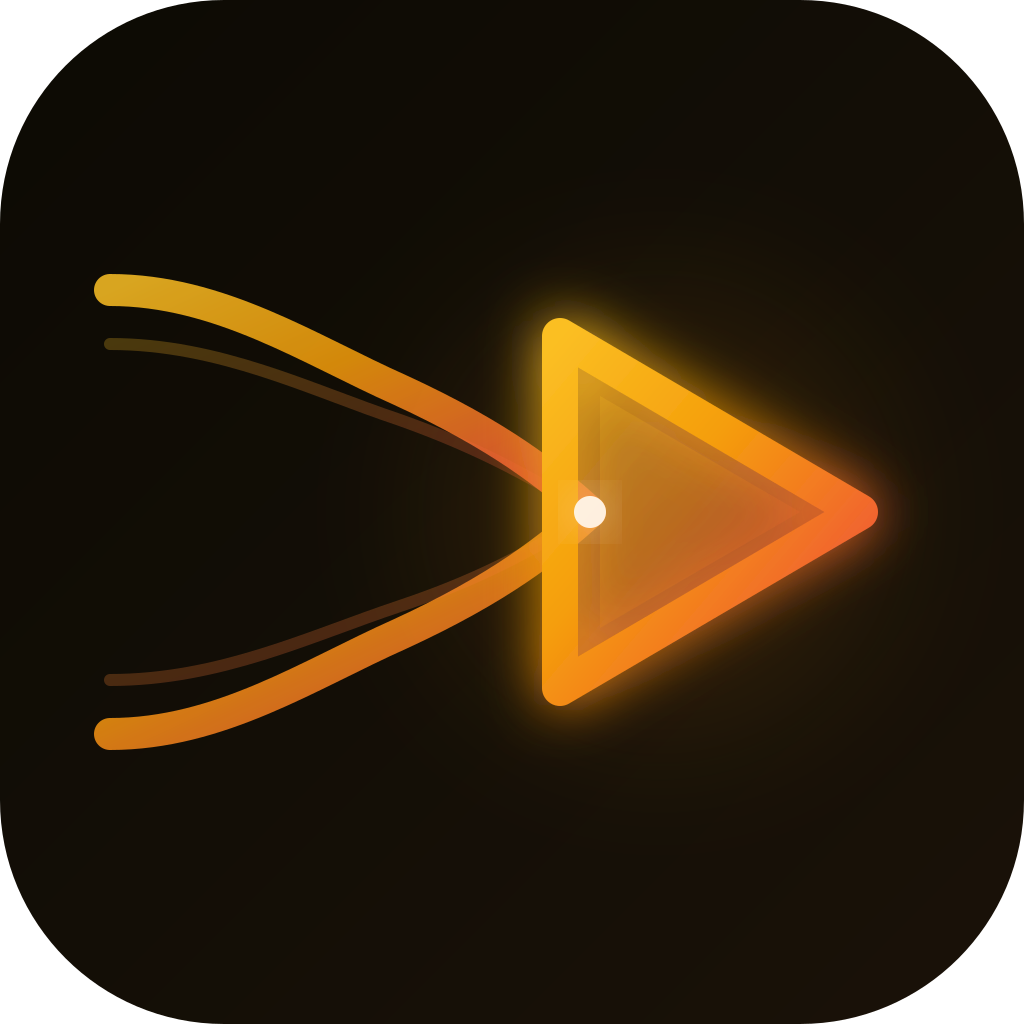
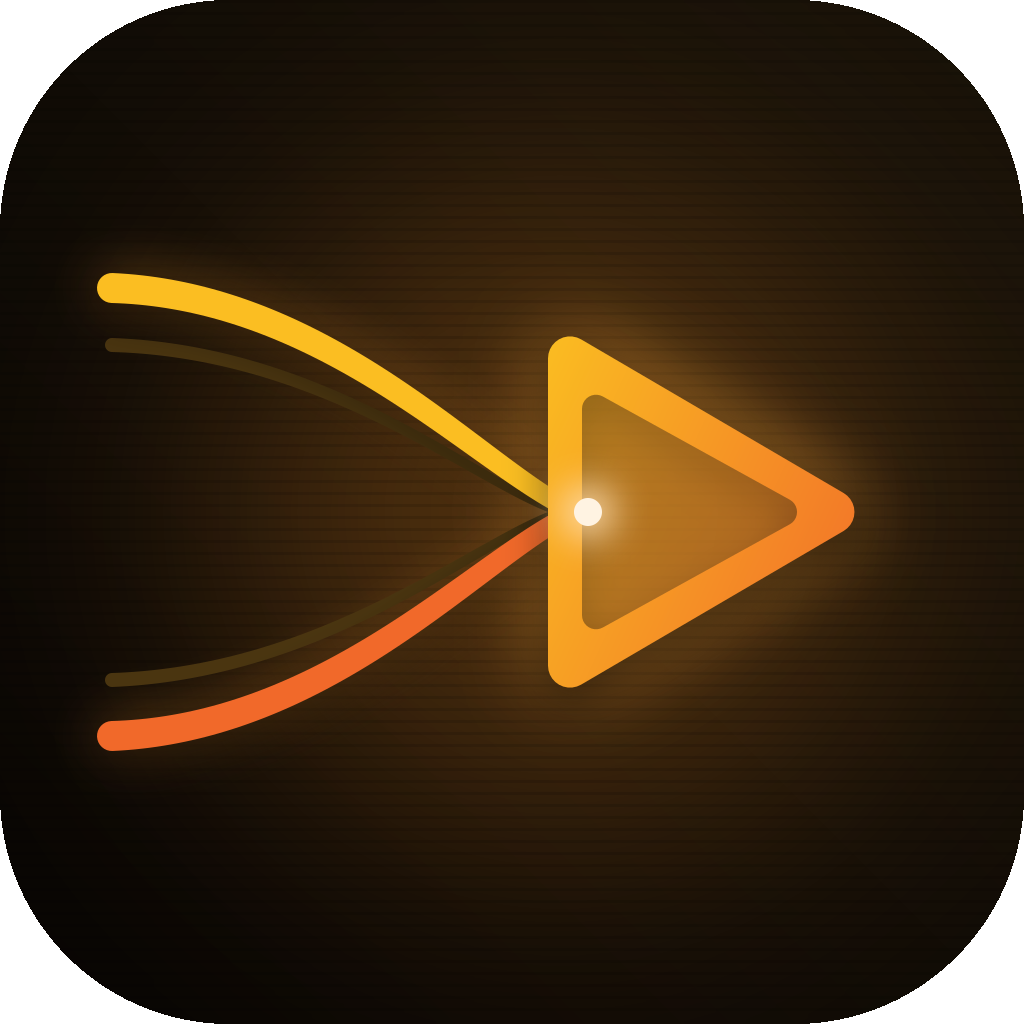
feat: rebrand the site to Cathode TV
New name in the title, meta and copy; new icon, favicon set, web manifest
and 1200x630 / 1200x675 social cards from the CasaVargas marketing bundle.
The getstreamline.tv domain is unchanged.

Changed region(s): [[0.0938, 0.125, 0.875, 0.8125]]

diff --git a/index.html b/index.html
@@ -3,25 +3,30 @@
 <head>
 <meta charset="UTF-8">
 <meta name="viewport" content="width=device-width, initial-scale=1.0">
-<title>Streamline — The IPTV Player Apple Would Build</title>
+<title>Cathode TV — The IPTV Player Apple Would Build</title>
 <meta name="description" content="Premium native IPTV player for iPhone, iPad, Mac, Apple TV, and Vision Pro. Pure SwiftUI. TMDB-enriched metadata. Full EPG guide. Zero compromises.">
 <meta name="keywords" content="IPTV, Apple TV, iPhone, iPad, Mac, SwiftUI, M3U, Xtream Codes, EPG, TV guide, live TV, streaming, IPTV player, Apple IPTV">
 <meta name="robots" content="index, follow">
 <!-- Open Graph -->
-<meta property="og:title" content="Streamline — The IPTV Player Apple Would Build">
+<meta property="og:title" content="Cathode TV — The IPTV Player Apple Would Build">
 <meta property="og:description" content="Premium native IPTV player for every Apple platform. TMDB metadata, full EPG, multi-view PiP. Coming 2026.">
 <meta property="og:type" content="website">
 <meta property="og:url" content="https://getstreamline.tv">
-<meta property="og:image" content="https://getstreamline.tv/app-icon.png">
-<meta property="og:site_name" content="Streamline">
+<meta property="og:image" content="https://getstreamline.tv/og-image.png">
+<meta property="og:image:width" content="1200">
+<meta property="og:image:height" content="630">
+<meta property="og:site_name" content="Cathode TV">
 <!-- Twitter -->
 <meta name="twitter:card" content="summary_large_image">
-<meta name="twitter:title" content="Streamline — The IPTV Player Apple Would Build">
+<meta name="twitter:title" content="Cathode TV — The IPTV Player Apple Would Build">
 <meta name="twitter:description" content="Premium native IPTV player for every Apple platform. Coming 2026.">
-<meta name="twitter:image" content="https://getstreamline.tv/app-icon.png">
+<meta name="twitter:image" content="https://getstreamline.tv/twitter-card.png">
 <!-- Favicon -->
-<link rel="icon" type="image/png" href="/app-icon.png">
-<link rel="apple-touch-icon" href="/app-icon.png">
+<link rel="icon" href="/favicon.ico" sizes="any">
+<link rel="icon" type="image/png" sizes="32x32" href="/favicon-32x32.png">
+<link rel="icon" type="image/png" sizes="16x16" href="/favicon-16x16.png">
+<link rel="apple-touch-icon" sizes="180x180" href="/apple-touch-icon.png">
+<link rel="manifest" href="/site.webmanifest">
 <link rel="canonical" href="https://getstreamline.tv">
 <link rel="preconnect" href="https://fonts.googleapis.com">
 <link href="https://fonts.googleapis.com/css2?family=DM+Serif+Display:ital@0;1&family=Outfit:wght@300;400;500;600;700&display=swap" rel="stylesheet">
@@ -563,8 +568,8 @@ footer a:hover { text-decoration: underline; }
 <!-- Nav -->
 <nav>
   <a href="#" class="nav-brand">
-    <img src="app-icon.png" alt="Streamline">
-    <span>Streamline</span>
+    <img src="app-icon.png" alt="Cathode TV">
+    <span>Cathode TV</span>
   </a>
   <div class="nav-links">
     <a href="#features">Features</a>
@@ -576,7 +581,7 @@ footer a:hover { text-decoration: underline; }
 
 <!-- ═══════════════════════ HERO ═══════════════════════ -->
 <section class="hero">
-  <img src="app-icon.png" alt="Streamline" class="hero-icon reveal">
+  <img src="app-icon.png" alt="Cathode TV" class="hero-icon reveal">
   <h1 class="reveal delay-1">The IPTV player<br><em>Apple would build.</em></h1>
   <p class="hero-sub reveal delay-2">Pure SwiftUI. TMDB-enriched metadata. Full EPG guide. Faster channel switching than your cable box. Built for every Apple screen — no compromises.</p>
   <div class="hero-pills reveal delay-3">
@@ -585,15 +590,15 @@ footer a:hover { text-decoration: underline; }
     <span class="hero-pill">EPG Guide</span>
     <span class="hero-pill accent">Coming 2026</span>
   </div>
-  <img src="screenshots/live-tv-grid.png" alt="Streamline Live TV" class="hero-screenshot reveal delay-4">
+  <img src="screenshots/live-tv-grid.png" alt="Cathode TV Live TV" class="hero-screenshot reveal delay-4">
 </section>
 
 <!-- ═══════════════════════ FEATURES ═══════════════════════ -->
 <section class="features" id="features">
   <div class="reveal">
-    <p class="section-label">Why Streamline</p>
+    <p class="section-label">Why Cathode TV</p>
     <h2 class="section-title">Not another playlist parser.</h2>
-    <p class="section-desc">Every IPTV app on the App Store feels like a port from Android. Streamline is built from scratch in SwiftUI — native to the bone.</p>
+    <p class="section-desc">Every IPTV app on the App Store feels like a port from Android. Cathode TV is built from scratch in SwiftUI — native to the bone.</p>
   </div>
   <div class="feature-grid">
     <div class="feature-card reveal delay-1">
@@ -637,12 +642,12 @@ footer a:hover { text-decoration: underline; }
     <p class="section-desc">Dark mode first. Semantic typography. Genre-colored accents. Designed to feel like it shipped from Cupertino.</p>
   </div>
   <div class="shot-strip reveal delay-2">
-    <img src="screenshots/home.png" alt="Streamline Home — Live Now, Tonight's Highlights, Live Sports">
-    <img src="screenshots/live-tv-grid.png" alt="Streamline Live TV — rich poster grid with metadata">
-    <img src="screenshots/live-tv-list.png" alt="Streamline Live TV — channel list with artwork">
-    <img src="screenshots/program-detail.png" alt="Streamline — program detail with backdrop, ratings, cast">
-    <img src="screenshots/player-info.png" alt="Streamline — player overlay with episode info">
-    <img src="screenshots/vod.png" alt="Streamline VOD — poster grid with ratings">
+    <img src="screenshots/home.png" alt="Cathode TV Home — Live Now, Tonight's Highlights, Live Sports">
+    <img src="screenshots/live-tv-grid.png" alt="Cathode TV Live TV — rich poster grid with metadata">
+    <img src="screenshots/live-tv-list.png" alt="Cathode TV Live TV — channel list with artwork">
+    <img src="screenshots/program-detail.png" alt="Cathode TV — program detail with backdrop, ratings, cast">
+    <img src="screenshots/player-info.png" alt="Cathode TV — player overlay with episode info">
+    <img src="screenshots/vod.png" alt="Cathode TV VOD — poster grid with ratings">
   </div>
 </section>
 
@@ -711,7 +716,7 @@ footer a:hover { text-decoration: underline; }
   <p class="section-label">Rich Metadata</p>
   <div class="feature-title">Every program gets<br>the full treatment.</div>
   <div class="feature-desc">
-    Streamline automatically enriches your EPG with TMDB data — HD posters, backdrops, cast photos, director credits, ratings, and trailers. Your channel guide looks like Netflix, not a spreadsheet.
+    Cathode TV automatically enriches your EPG with TMDB data — HD posters, backdrops, cast photos, director credits, ratings, and trailers. Your channel guide looks like Netflix, not a spreadsheet.
   </div>
   <div class="feature-pills">
     <span class="pill">TMDB auto-matching</span>
@@ -729,7 +734,7 @@ footer a:hover { text-decoration: underline; }
   <p class="section-label">Any Provider</p>
   <div class="feature-title">Bring whatever<br>you've got.</div>
   <div class="feature-desc">
-    M3U playlists, Xtream Codes, or XMLTV guides. Streamline parses them all and presents a unified, beautiful interface regardless of where your content comes from.
+    M3U playlists, Xtream Codes, or XMLTV guides. Cathode TV parses them all and presents a unified, beautiful interface regardless of where your content comes from.
   </div>
   <div class="feature-pills">
     <span class="pill">M3U / M3U8</span>
@@ -795,7 +800,7 @@ footer a:hover { text-decoration: underline; }
 
 <!-- ═══════════════════════ FOOTER ═══════════════════════ -->
 <footer>
-  <p>&copy; 2026 Streamline &middot; <a href="https://casavargas.app">Casa Vargas</a></p>
+  <p>&copy; 2026 Cathode TV &middot; <a href="https://casavargas.app">Casa Vargas</a></p>
 </footer>
 
 <!-- Scroll reveal -->
